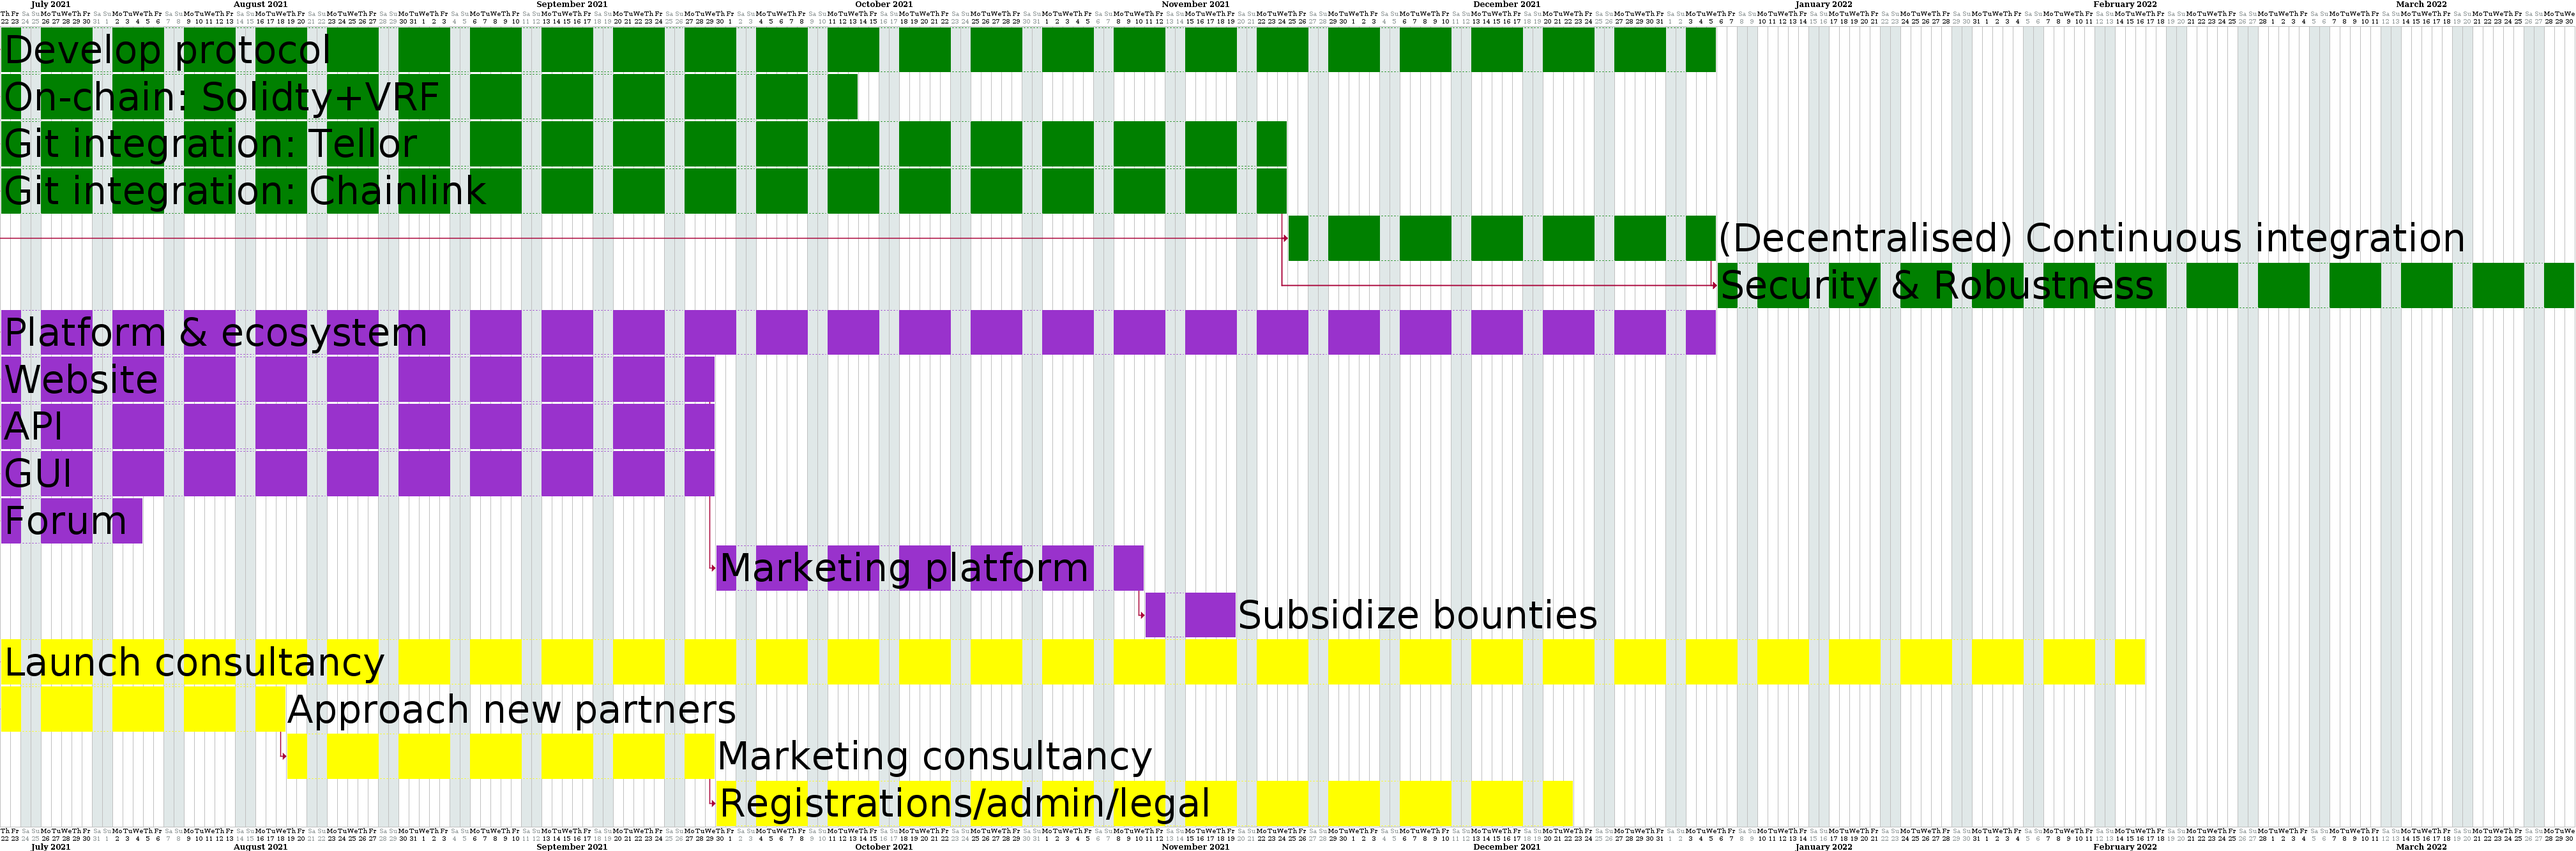
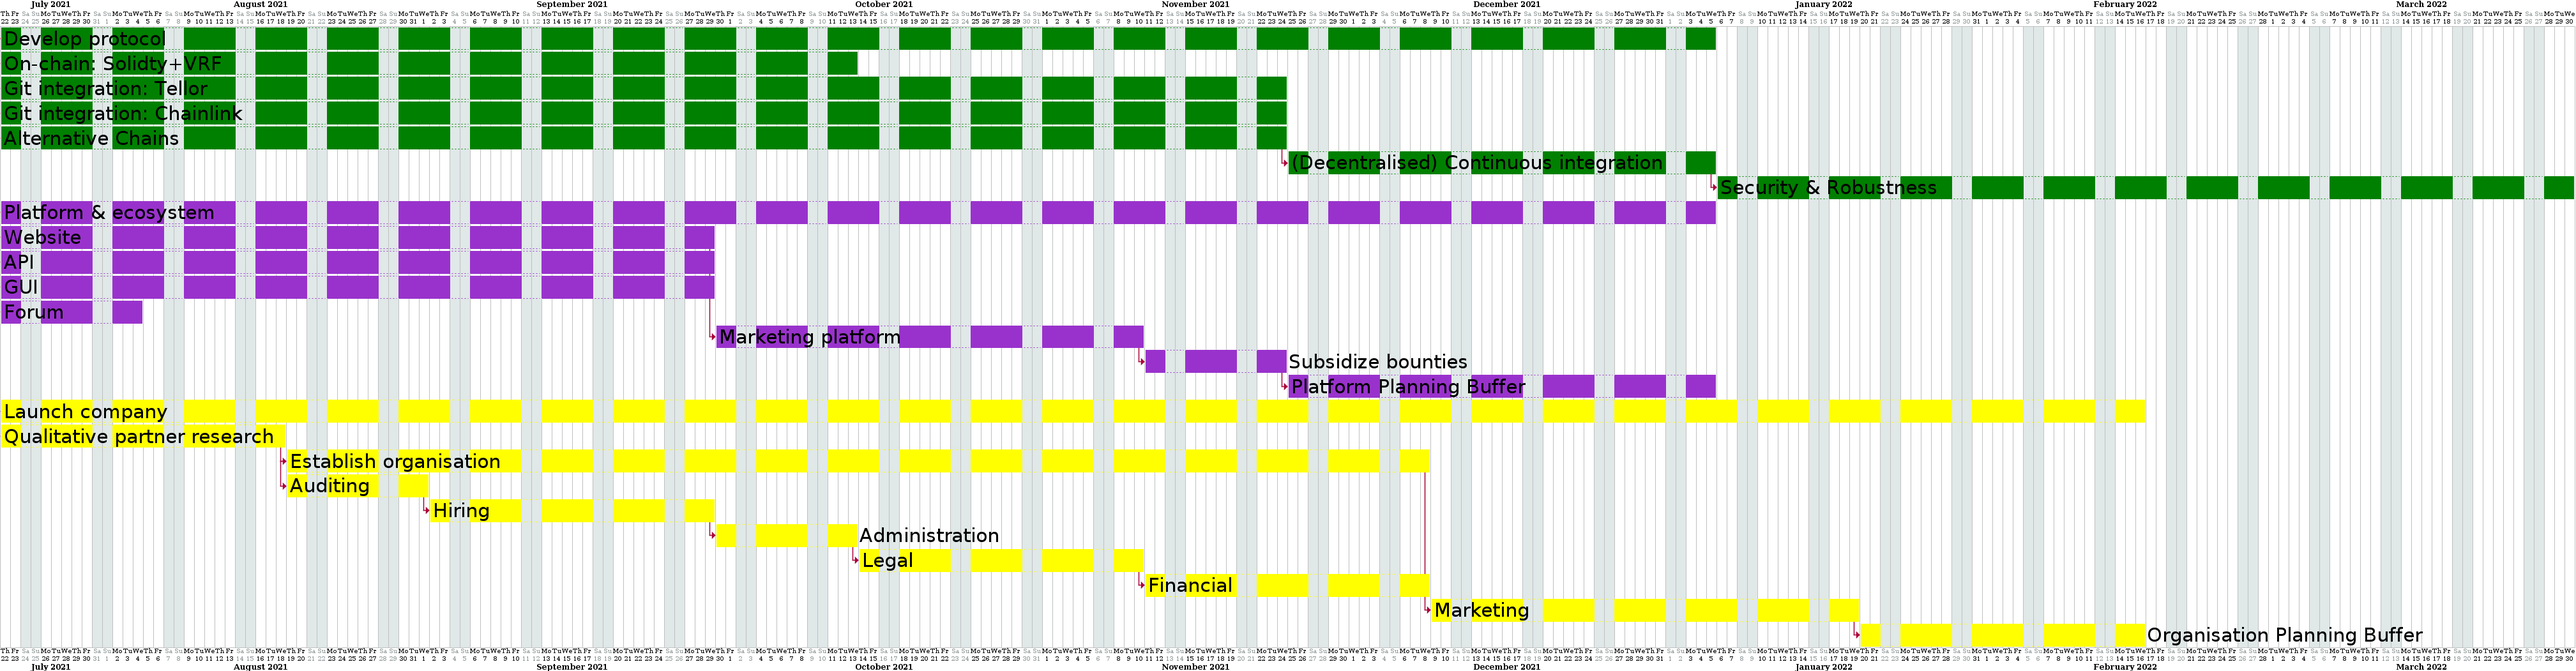
Added planning buffers for platform and company launch.

Changed region(s): [[0.0, 0.0, 1.0, 1.0]]

diff --git a/code/project1/src/Create_python_gantt.py b/code/project1/src/Create_python_gantt.py
@@ -37,15 +37,16 @@ def create_python_gantt():
     onchain = Activity(description="On-chain: Solidty+VRF", duration=60, new_tag=0, parent=protocol)
     git_tellor = Activity(description="Git integration: Tellor", duration=90,  new_tag=1,parent=protocol,starts_at_child_nr_start=0)
     git_chainlink = Activity(description="Git integration: Chainlink", duration=90,  new_tag=2,parent=protocol,starts_at_child_nr_start=0)
+    alt_chains = Activity(description="Alternative Chains", duration=90,  new_tag=3,parent=protocol,starts_at_child_nr_start=0)
     
     # grandchildren
     ci = Activity(description="(Decentralised) Continuous integration",  new_tag=0, duration=30, parent=git_chainlink)
-    git_chainlink.add_children([ci])
+    #git_chainlink.add_children([ci])
     security = Activity(description="Security & Robustness", duration=60,  new_tag=1, parent=git_chainlink)
-    ci.add_children([security])
+    #ci.add_children([security])
     
     # merge
-    protocol.add_children([onchain,git_tellor,git_chainlink,ci,security])
+    protocol.add_children([onchain,git_tellor,git_chainlink,alt_chains, ci, security])
     parents.append(protocol)
     
     
@@ -54,7 +55,8 @@ def create_python_gantt():
     # children
     website = Activity(description="Website", duration=50, new_tag=0, parent=platform_eco)
     marketing_platf = Activity(description="Marketing platform", duration=30, new_tag=1, parent=platform_eco)
-    bounties = Activity(description="Subsidize bounties", duration=7, new_tag=2, parent=platform_eco)
+    bounties = Activity(description="Subsidize bounties", duration=10, new_tag=2, parent=platform_eco)
+    platform_buffer = Activity(description="Platform Planning Buffer", duration=30, new_tag=3, parent=platform_eco)
     
     # Grandchildren
     api = Activity(description="API", duration=50, new_tag=0, parent=website)
@@ -62,17 +64,28 @@ def create_python_gantt():
     forum = Activity(description="Forum", duration=10, new_tag=2, parent=website, starts_at_child_nr_start=0)
     website.add_children([api, gui, forum])
     
-    platform_eco.add_children([website,marketing_platf,bounties])
+    platform_eco.add_children([website,marketing_platf,bounties, platform_buffer])
     parents.append(platform_eco)
     
     # parent_three
-    consultancy = Activity(description="Launch consultancy", duration=150, new_tag=2, colour="Yellow",starts_at_child_nr_start=0)
+    company = Activity(description="Launch company", duration=150, new_tag=2, colour="Yellow",starts_at_child_nr_start=0)
     # children
-    partners = Activity(description="Approach new partners", duration=20, new_tag=0, parent=consultancy)
-    marketing_cons = Activity(description="Marketing consultancy", duration=30, new_tag=1, parent=consultancy)
-    regist_cons = Activity(description="Registrations/admin/legal", duration=60, new_tag=2, parent=consultancy)
-    consultancy.add_children([partners,marketing_cons,regist_cons])
-    parents.append(consultancy)
+    partners = Activity(description="Qualitative partner research", duration=20, new_tag=0, parent=company)
+    organisation = Activity(description="Establish organisation", duration=80, new_tag=1, parent=company)
+    marketing_company = Activity(description="Marketing", duration=30, new_tag=2, parent=company)
+    company_buffer = Activity(description="Organisation Planning Buffer ", duration=20, new_tag=3, parent=company)
+    
+    # Grandchildren
+    auditing = Activity(description="Auditing", duration=10, new_tag=0, parent=organisation)
+    hiring = Activity(description="Hiring", duration=20, new_tag=1, parent=organisation)
+    administration = Activity(description="Administration", duration=10, new_tag=2, parent=organisation)
+    legal = Activity(description="Legal", duration=20, new_tag=3, parent=organisation)
+    financial = Activity(description="Financial", duration=20, new_tag=4, parent=organisation)
+    organisation.add_children([auditing, hiring, administration, legal, financial])
+    
+    
+    company.add_children([partners,organisation, marketing_company, company_buffer])
+    parents.append(company)
     
     return parents
 

diff --git a/code/project1/src/Gantt.py b/code/project1/src/Gantt.py
@@ -12,7 +12,7 @@ class Gantt:
         self.project_start_date = "2021/07-22"
         self.closed_days = ["saturday", "sunday"]
         self.gantt_font_size="skinparam classFontSize 100"
-        self.box_font_size="60"
+        self.box_font_size="30"
         
         #self.font_size="skinparam defaultFontSize  100"
 
